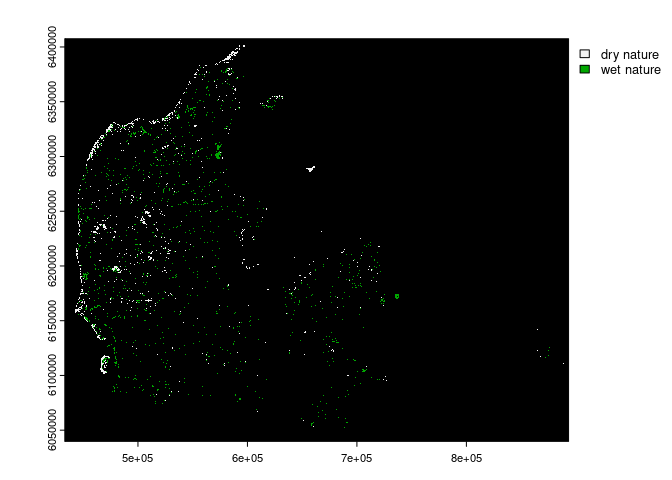
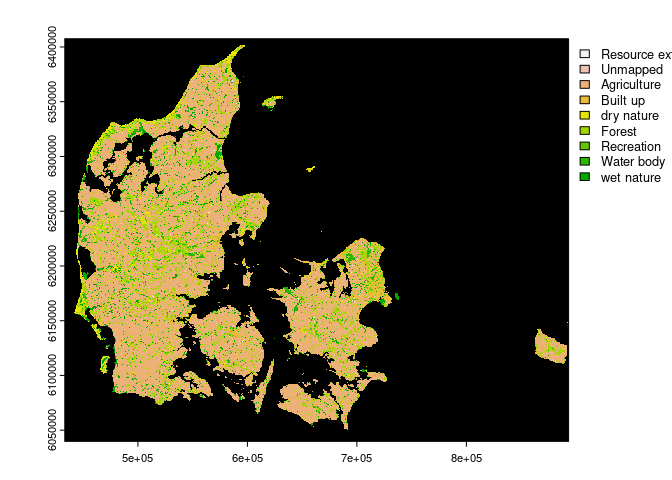
Fixed readme with better example

diff --git a/README.md b/README.md
@@ -57,15 +57,14 @@ Even though there is a wrap up function that can do most of the
 functionalities of spatial continuity we will go step by step to show
 how they interact together, first we will show a very upscaled fragment
 of the basemap 4 landuse map of Denmark, for that we will use the
-included dataset `dry_wet_nature` which is a wrapped dataset
+included dataset `Landuse_DK` which is a wrapped dataset
 
 ``` r
 library(SpatioTemporalCont)
 library(terra)
-#> terra 1.7.69
 ## basic example code
-data("dry_wet_nature")
-nature <- terra::unwrap(dry_wet_nature)
+data("Landuse_DK")
+nature <- terra::unwrap(Landuse_DK)
 ```
 
 We can see the dry nature type and wet nature type of Denmark in figure
@@ -91,23 +90,11 @@ meters to calculate the proportions of the nature raster created above:
 ``` r
 proportions <- calculate_prop(Rast = nature, Radius = 200)
 #> Starting to generate dummy stack [1/3]
-#> 
-|---------|---------|---------|---------|
-=========================================
-                                          
 #> Calculating the weight matrix [2/3]
 #> Generating final stack [3/3]
-#> 
-|---------|---------|---------|---------|
-=========================================
-                                          
 ```
 
 We can see the result in figure <a href="#fig:propsdenmark">2.2</a>
-
-``` r
-plot(proportions, colNA = "black")
-```
 
 <div class="figure">
 
@@ -121,5 +108,3 @@ habitat types within Denmark
 </p>
 
 </div>
-
-All necesary cells are filled
